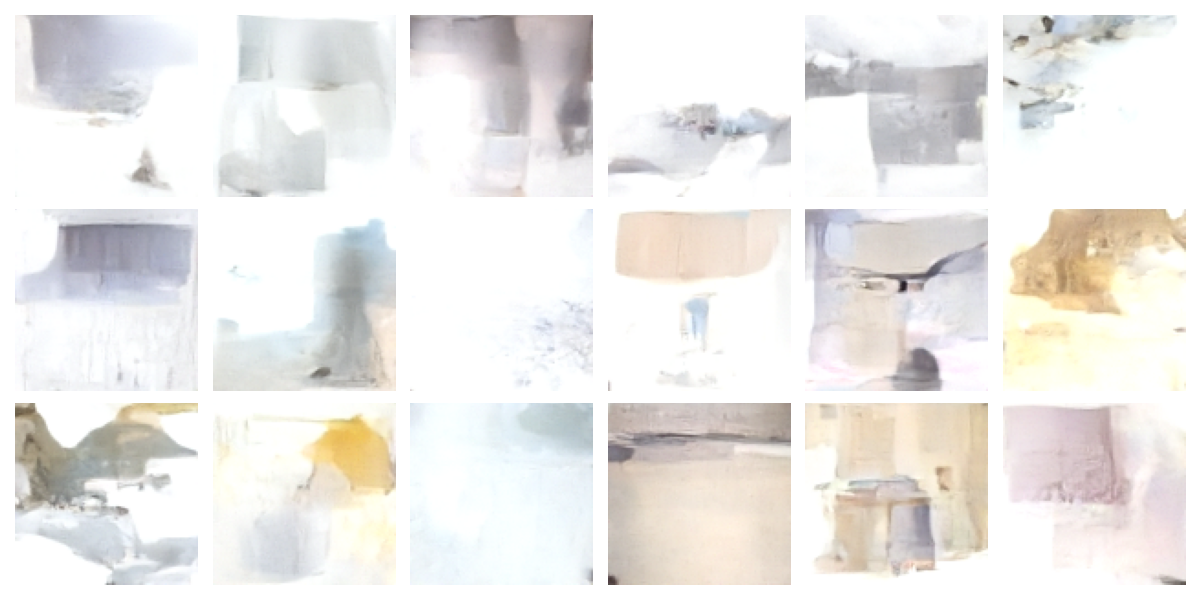
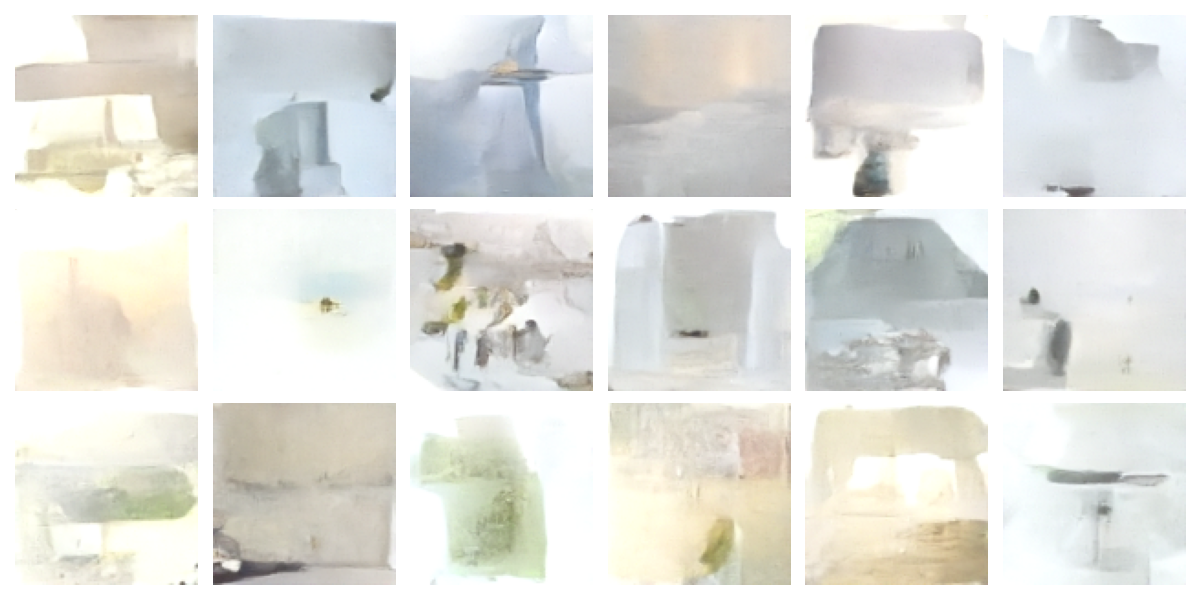
Saving results from server

diff --git a/Model/adversarial/adversarial.py b/Model/adversarial/adversarial.py
@@ -686,7 +686,7 @@ class AdversarialStandard(GeneralModelClass):
             if adv:  # adversarial model
                 train_generator = train_generator.map(
                     lambda img, y: (
-                        data_augmentation(img, training=aug),
+                        img,
                         y[0 : self.n_cultures],
                     )
                 )
@@ -694,14 +694,12 @@ class AdversarialStandard(GeneralModelClass):
                 
                 train_generator = train_generator.map(
                     lambda img, y: (
-                        data_augmentation(img, training=aug),
+                        img,
                         y[self.n_cultures],
                     )
                 )
 
-            train_generator = (
-                train_generator.cache().batch(batch_size).prefetch(buffer_size=10)
-            )
+            train_generator = train_generator.batch(batch_size).prefetch(tf.data.AUTOTUNE).cache()
             
             if val:
                 validation_generator = tf.data.Dataset.from_tensor_slices(VS)
@@ -709,22 +707,19 @@ class AdversarialStandard(GeneralModelClass):
                 if adv:
                     validation_generator = validation_generator.map(
                         lambda img, y: (
-                            data_augmentation(img, training=aug),
+                            img,
                             y[0 : self.n_cultures],
                         )
                     )
                 else:
                     validation_generator = validation_generator.map(
                         lambda img, y: (
-                            data_augmentation(img, training=aug),
+                            img,
                             y[self.n_cultures],
                         )
                     )
-                validation_generator = (
-                    validation_generator.cache()
-                    .batch(batch_size)
-                    .prefetch(buffer_size=10)
-                )
+                validation_generator = validation_generator.batch(batch_size).prefetch(tf.data.AUTOTUNE).cache()
+                
             restore_output()
 
 
